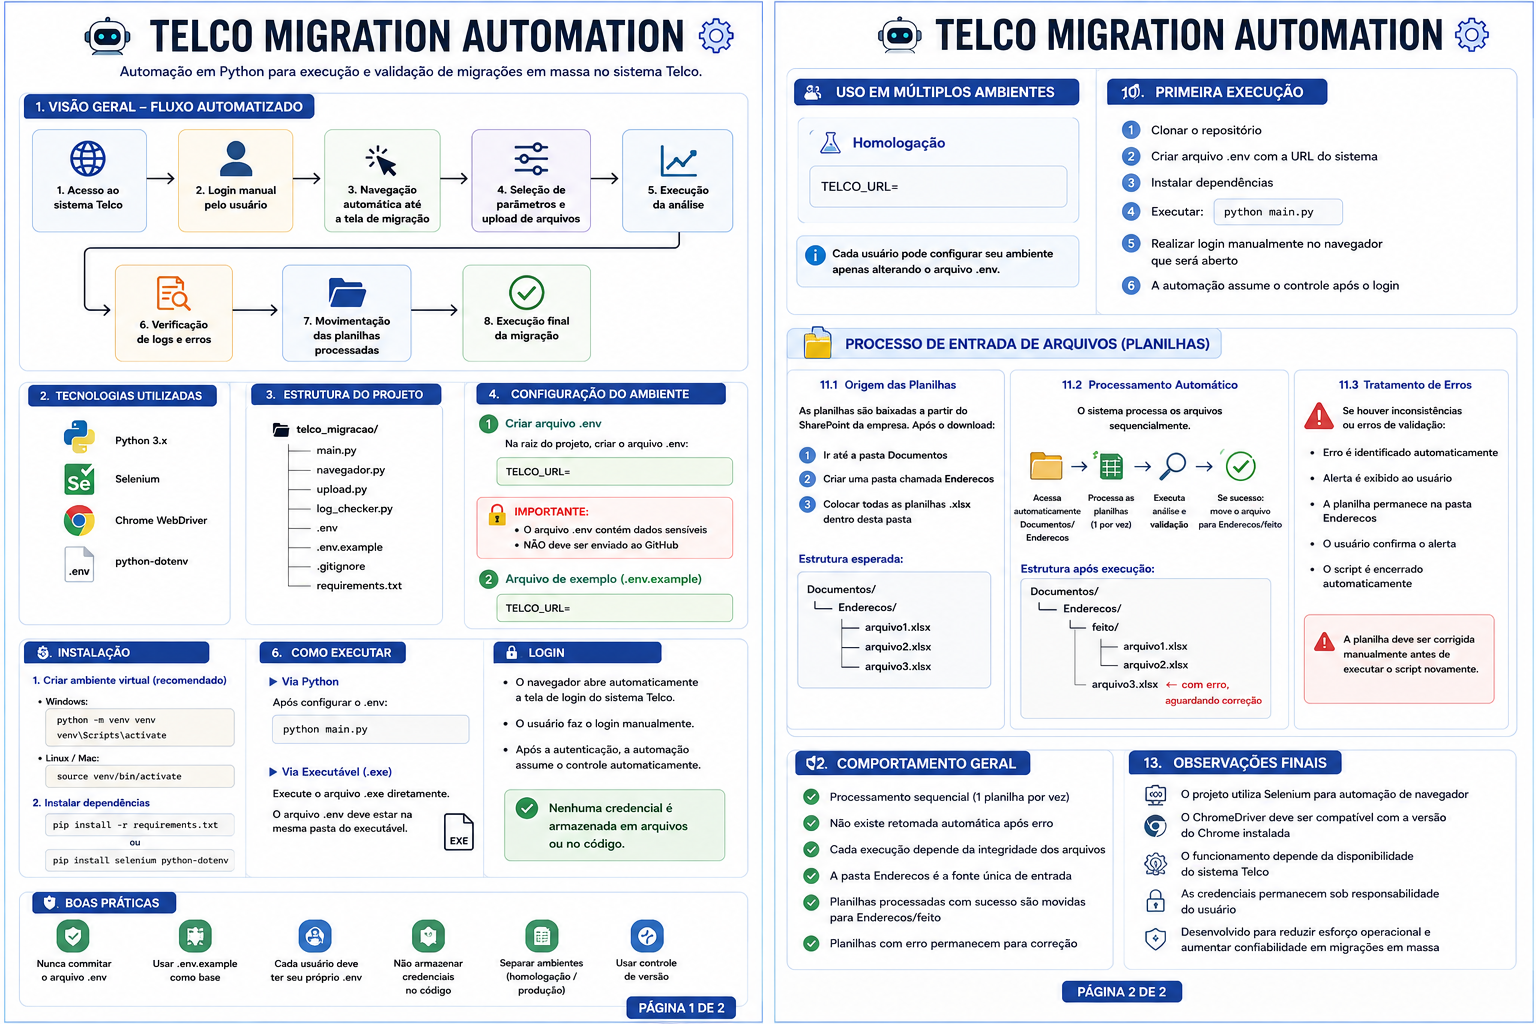
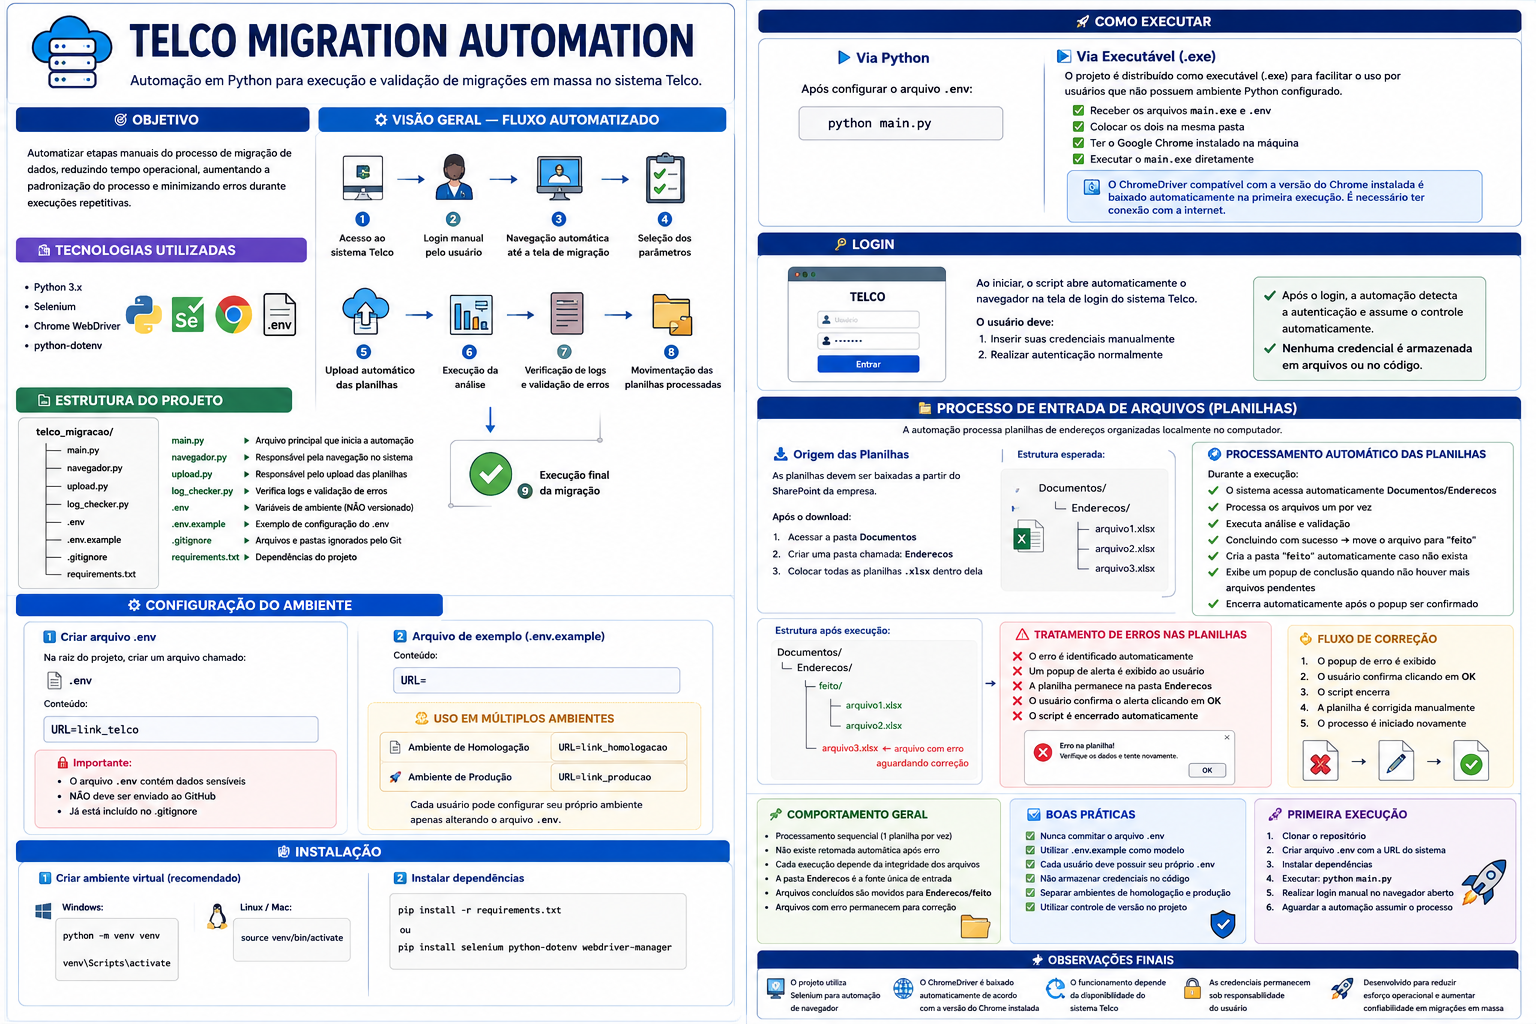
Atualizando README

diff --git a/README.md b/README.md
@@ -40,13 +40,10 @@ Automatizar etapas manuais do processo de migração de dados, reduzindo tempo o
 
 ━━━━━━━━━━━━━━━━━━━━━━
 
-• Python 3.x
-
-• Selenium
-
-• Chrome WebDriver
-
-• python-dotenv
+* Python 3.x
+* Selenium
+* Chrome WebDriver
+* python-dotenv
 
 ━━━━━━━━━━━━━━━━━━━━━━
 
@@ -88,21 +85,19 @@ Na raiz do projeto, criar um arquivo chamado:
 
 Conteúdo:
 
-TELCO_URL=link_telco
+URL=link_telco
 
 🔐 Importante:
 
-• O arquivo .env contém dados sensíveis
-
-• NÃO deve ser enviado ao GitHub
-
-• Já está incluído no .gitignore
+* O arquivo .env contém dados sensíveis
+* NÃO deve ser enviado ao GitHub
+* Já está incluído no .gitignore
 
 2️⃣ Arquivo de exemplo (.env.example)
 
 Conteúdo:
 
-TELCO_URL=
+URL=
 
 ━━━━━━━━━━━━━━━━━━━━━━
 
@@ -128,7 +123,7 @@ pip install -r requirements.txt
 
 ou
 
-pip install selenium python-dotenv
+pip install selenium python-dotenv webdriver-manager
 
 ━━━━━━━━━━━━━━━━━━━━━━
 
@@ -144,13 +139,16 @@ python main.py
 
 ▶️ Via Executável (.exe)
 
-O projeto também pode ser distribuído como executável (.exe) para facilitar o uso por usuários que não possuem ambiente Python configurado.
+O projeto é distribuído como executável (.exe) para facilitar o uso por usuários que não possuem ambiente Python configurado.
 
-Regras:
+Para utilizar:
 
-• Executar o arquivo .exe diretamente
+* Receber os arquivos main.exe e .env
+* Colocar os dois na mesma pasta
+* Ter o Google Chrome instalado na máquina
+* Executar o main.exe diretamente
 
-• O arquivo .env deve estar na mesma pasta do executável
+O ChromeDriver compatível com a versão do Chrome instalada é baixado automaticamente na primeira execução. É necessário ter conexão com a internet.
 
 ━━━━━━━━━━━━━━━━━━━━━━
 
@@ -167,6 +165,8 @@ O usuário deve:
 
 Após o login, a automação detecta a autenticação e assume o controle automaticamente.
 
+É possível utilizar o Chrome em outra janela e/ou o computador normalmente enquanto a automação executa, apenas evite cliques desnecessários na janela onde ela está rodando.
+
 ✅ Nenhuma credencial é armazenada em arquivos ou no código.
 
 ━━━━━━━━━━━━━━━━━━━━━━
@@ -177,11 +177,11 @@ Após o login, a automação detecta a autenticação e assume o controle automa
 
 🧪 Ambiente de Homologação
 
-TELCO_URL=
+URL=
 
 🚀 Ambiente de Produção
 
-TELCO_URL=
+URL=
 
 Cada usuário pode configurar seu próprio ambiente apenas alterando o arquivo .env.
 
@@ -212,10 +212,7 @@ Cada usuário pode configurar seu próprio ambiente apenas alterando o arquivo .
 1. Clonar o repositório
 2. Criar arquivo .env com a URL do sistema
 3. Instalar dependências
-4. Executar:
-
-python main.py
-
+4. Executar: python main.py
 5. Realizar login manual no navegador aberto
 6. Aguardar a automação assumir o processo
 
@@ -234,10 +231,7 @@ As planilhas devem ser baixadas a partir do SharePoint da empresa.
 Após o download:
 
 1. Acessar a pasta Documentos
-2. Criar uma pasta chamada:
-
-Enderecos
-
+2. Criar uma pasta chamada: Enderecos
 3. Colocar todas as planilhas .xlsx dentro dela
 
 Estrutura esperada:
@@ -246,11 +240,11 @@ Documentos/
 
 └── Enderecos/
 
-  ├── arquivo1.xlsx
+├── arquivo1.xlsx
 
-  ├── arquivo2.xlsx
+├── arquivo2.xlsx
 
-  └── arquivo3.xlsx
+└── arquivo3.xlsx
 
 ━━━━━━━━━━━━━━━━━━━━━━
 
@@ -260,17 +254,13 @@ Documentos/
 
 Durante a execução:
 
-• O sistema acessa automaticamente Documentos/Enderecos
-
-• Processa os arquivos um por vez
-
-• Executa análise e validação
-
-• Concluindo com sucesso → move o arquivo para "feito"
-
-• Cria a pasta "feito" automaticamente caso não exista
-
-• Finaliza quando não houver mais arquivos pendentes
+* O sistema acessa automaticamente Documentos/Enderecos
+* Processa os arquivos um por vez
+* Executa análise e validação
+* Concluindo com sucesso → move o arquivo para "feito"
+* Cria a pasta "feito" automaticamente caso não exista
+* Exibe um popup de conclusão quando não houver mais arquivos pendentes
+* Encerra automaticamente após o popup ser confirmado
 
 Estrutura após execução:
 
@@ -278,13 +268,13 @@ Documentos/
 
 └── Enderecos/
 
-  ├── feito/
+├── feito/
 
-  │ ├── arquivo1.xlsx
+│   ├── arquivo1.xlsx
 
-  │ └── arquivo2.xlsx
+│   └── arquivo2.xlsx
 
-  └── arquivo3.xlsx ← arquivo com erro aguardando correção
+└── arquivo3.xlsx ← arquivo com erro aguardando correção
 
 ━━━━━━━━━━━━━━━━━━━━━━
 
@@ -298,11 +288,11 @@ Quando isso acontecer:
 
 ❌ O erro é identificado automaticamente
 
-❌ Um alerta é exibido ao usuário
+❌ Um popup de alerta é exibido ao usuário
 
 ❌ A planilha permanece na pasta Enderecos
 
-❌ O usuário confirma o alerta
+❌ O usuário confirma o alerta clicando em OK
 
 ❌ O script é encerrado automaticamente
 
@@ -312,8 +302,8 @@ Quando isso acontecer:
 
 ━━━━━━━━━━━━━━━━━━━━━━
 
-1. O alerta de erro é exibido
-2. O usuário confirma a mensagem
+1. O popup de erro é exibido
+2. O usuário confirma clicando em OK
 3. O script encerra
 4. A planilha é corrigida manualmente
 5. O processo é iniciado novamente
@@ -326,17 +316,12 @@ Após correção, apenas os arquivos pendentes serão processados.
 
 ━━━━━━━━━━━━━━━━━━━━━━
 
-• Processamento sequencial (1 planilha por vez)
-
-• Não existe retomada automática após erro
-
-• Cada execução depende da integridade dos arquivos
-
-• A pasta Enderecos é a fonte única de entrada
-
-• Arquivos concluídos são movidos para Enderecos/feito
-
-• Arquivos com erro permanecem para correção
+* Processamento sequencial (1 planilha por vez)
+* Não existe retomada automática após erro
+* Cada execução depende da integridade dos arquivos
+* A pasta Enderecos é a fonte única de entrada
+* Arquivos concluídos são movidos para Enderecos/feito
+* Arquivos com erro permanecem para correção
 
 ━━━━━━━━━━━━━━━━━━━━━━
 
@@ -346,7 +331,7 @@ Após correção, apenas os arquivos pendentes serão processados.
 
 🖥️ O projeto utiliza Selenium para automação de navegador
 
-🌐 O ChromeDriver deve ser compatível com a versão instalada do Chrome
+🌐 O ChromeDriver é baixado automaticamente de acordo com a versão do Chrome instalada
 
 🔄 O funcionamento depende da disponibilidade do sistema Telco
 